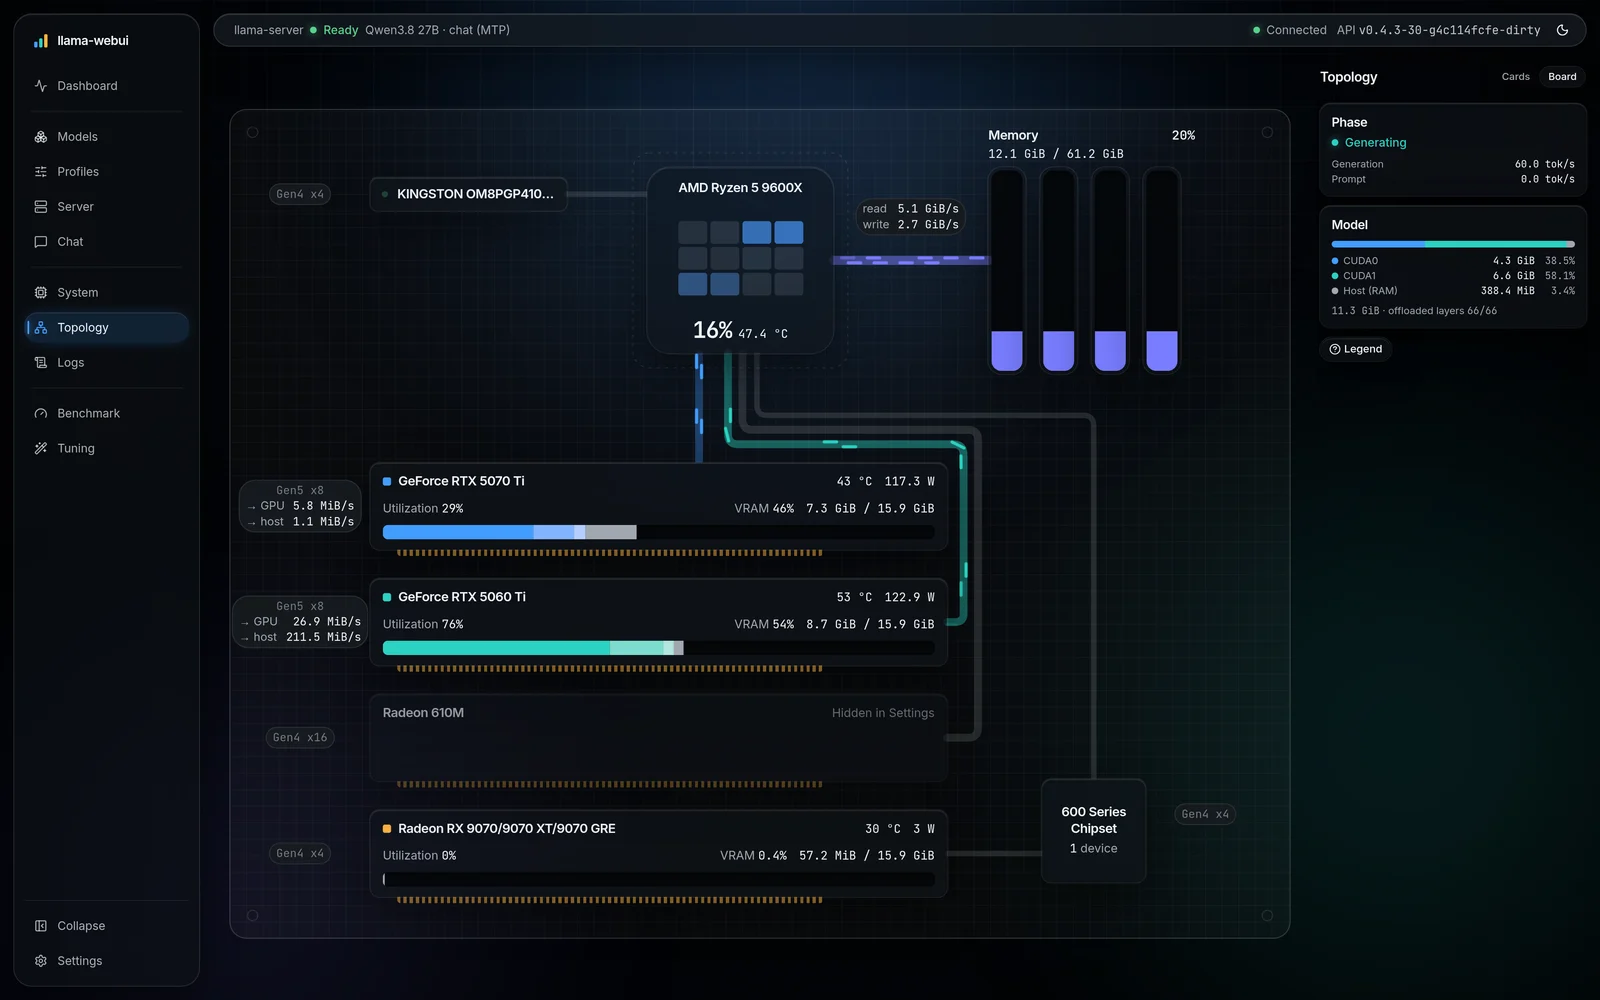
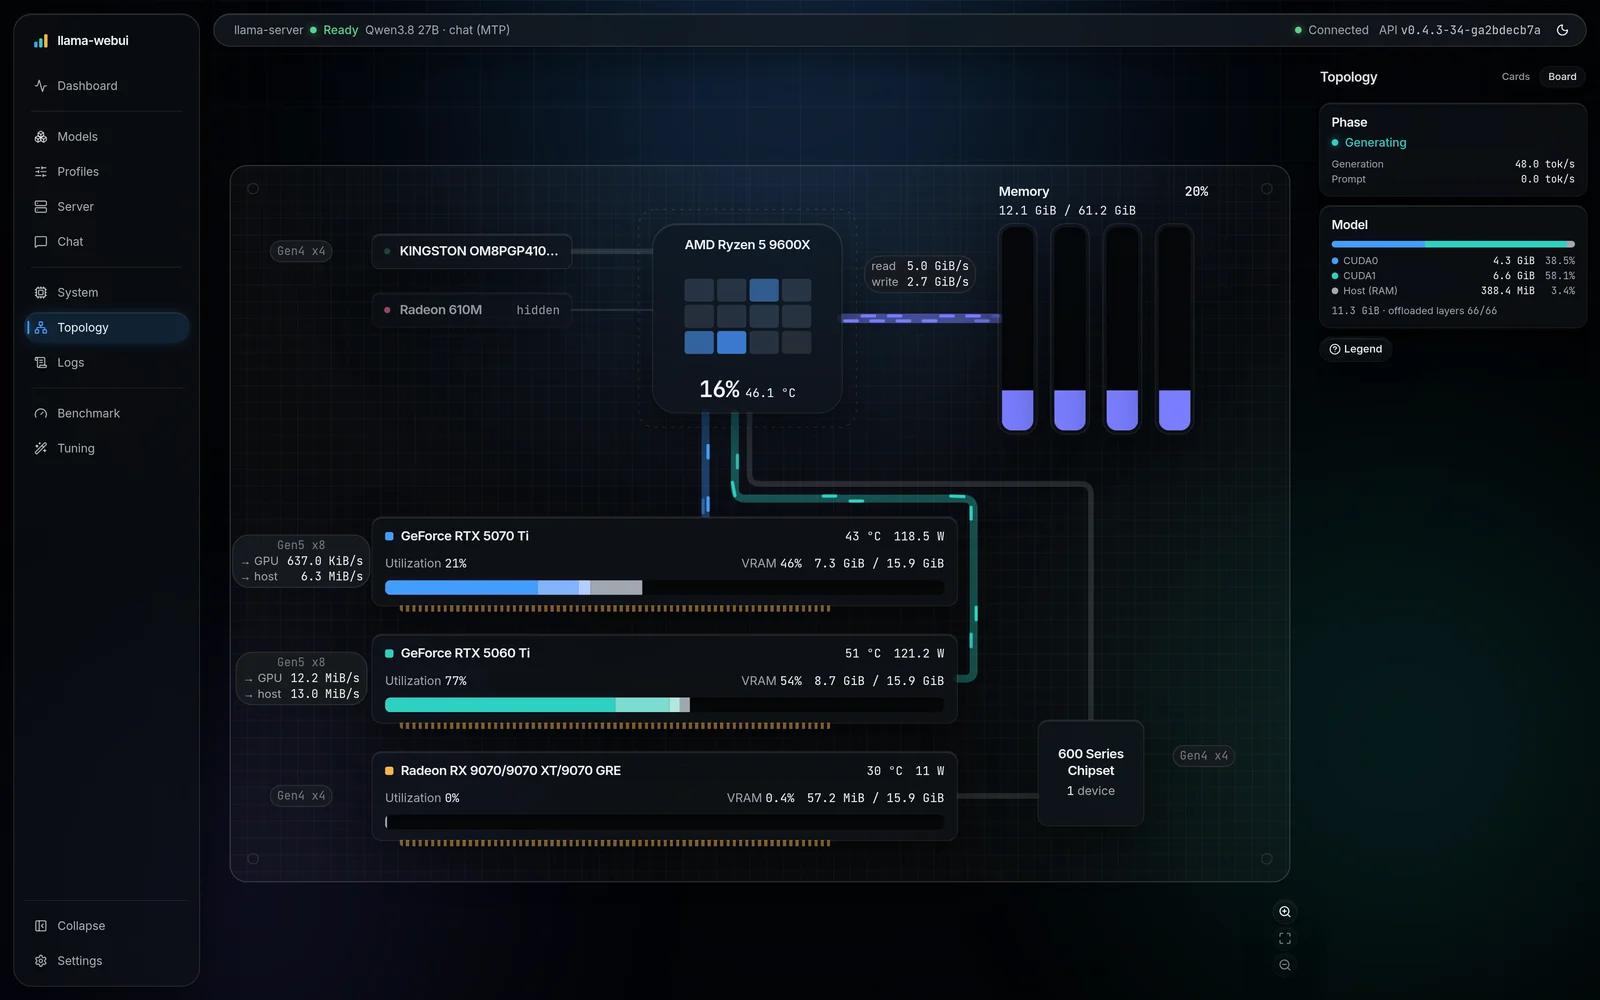
docs: Retake the Topology captures with the zoom buttons, name the zoom in the README
The four captures of the site and the README's image show the integrated GPU
beside the processor and the three zoom buttons at the lower right of the
drawing.

diff --git a/README.md b/README.md
@@ -87,7 +87,8 @@ The **Topology** page draws your machine, as a diagram of cards or as the plan o
 NVMe drives, GPUs and chipset, discovered automatically from sysfs. Streaks flow along each link according to
 **measured** PCIe, NVMe and DRAM traffic (DRAM through `perf` on AMD Zen 4/5), with the exact throughput next to it
 and an alert when a link nears its capacity. GPUs and memory have a bar filled to the memory in use, and selecting a
-block opens all its figures. Two panels show the current phase (loading, prompt, generation) and **how the model is split
+block opens all its figures. The wheel zooms and a drag moves the drawing, to look closer at a part of the machine.
+Two panels show the current phase (loading, prompt, generation) and **how the model is split
 across devices**, parsed from `llama-server`'s startup logs.
 
 <p align="center">
